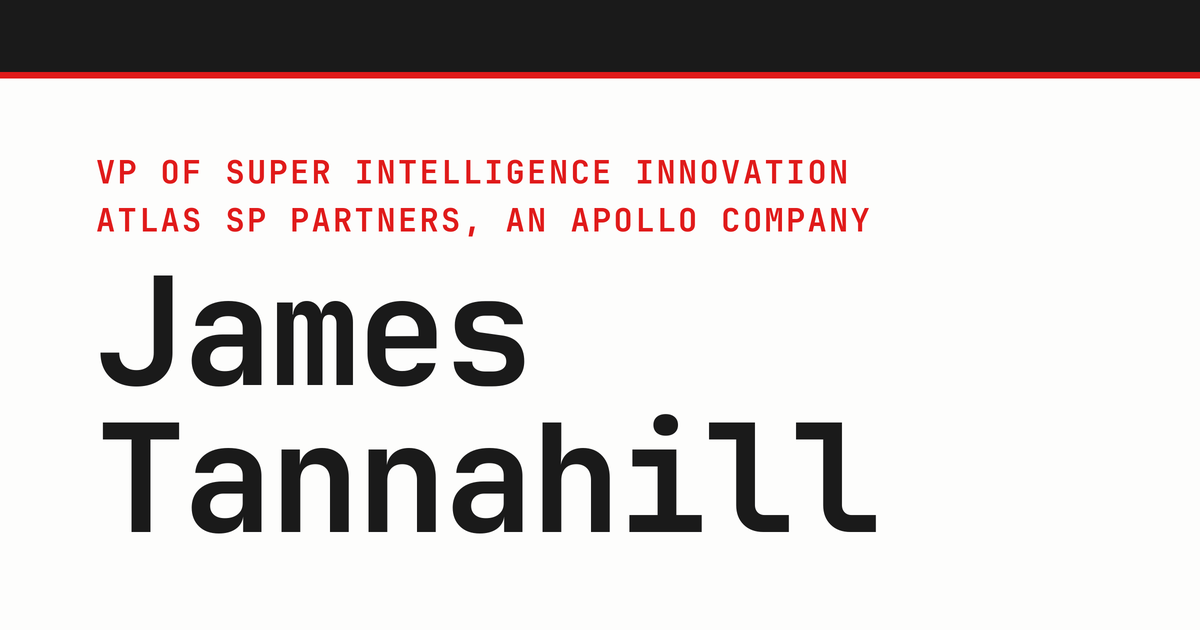
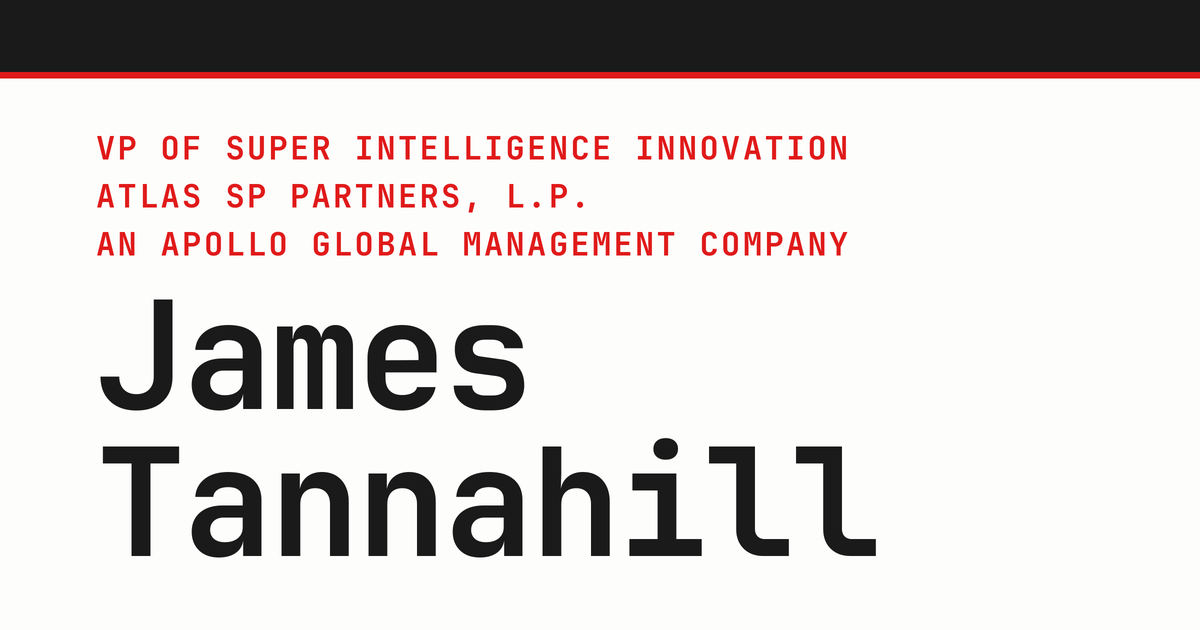
ATLAS SP Partners, L.P., an Apollo Global Management company
Card eyebrow, Wallet landing and both link previews show the company as two
lines (ATLAS SP Partners, L.P. / An Apollo Global Management company), since
the full styling orphaned a word on one line; owner approved the mockups.
generate-og.py now draws each employer line and asserts every line fits
(it only checked the role line before). Schema worksFor name, vCard ORG and
MECARD ORG (comma escaped), meta, llms and manifests updated; og ?v bumped
(contact 8, map 9). pass.json changed: re-sign with update-pass.sh.

diff --git a/contact.html b/contact.html
@@ -3,23 +3,23 @@
 <head>
   <meta charset="UTF-8">
   <meta name="viewport" content="width=device-width, initial-scale=1.0, viewport-fit=cover">
-  <title>James Tannahill | VP of SI Innovation at ATLAS SP Partners</title>
-  <meta name="description" content="James Tannahill. VP of Super Intelligence Innovation at ATLAS SP Partners, an Apollo company. Private Equity, Healthcare Intelligence, AI Infrastructure.">
-  <meta property="og:title" content="James Tannahill | VP of SI Innovation at ATLAS SP Partners">
-  <meta property="og:description" content="VP of Super Intelligence Innovation at ATLAS SP Partners, an Apollo company. Private Equity. Healthcare Intelligence. AI Infrastructure.">
+  <title>James Tannahill | VP of SI Innovation at ATLAS SP Partners, L.P., an Apollo Global Management company</title>
+  <meta name="description" content="James Tannahill. VP of Super Intelligence Innovation at ATLAS SP Partners, L.P., an Apollo Global Management company. Private Equity, Healthcare Intelligence, AI Infrastructure.">
+  <meta property="og:title" content="James Tannahill | VP of SI Innovation at ATLAS SP Partners, L.P., an Apollo Global Management company">
+  <meta property="og:description" content="VP of Super Intelligence Innovation at ATLAS SP Partners, L.P., an Apollo Global Management company. Private Equity. Healthcare Intelligence. AI Infrastructure.">
   <meta property="og:type" content="website">
   <meta property="og:url" content="https://contact.jamestannahill.com/">
-  <meta property="og:image" content="https://contact.jamestannahill.com/og-image.png?v=7">
+  <meta property="og:image" content="https://contact.jamestannahill.com/og-image.png?v=8">
   <meta property="og:image:type" content="image/png">
   <meta property="og:image:width" content="1200">
   <meta property="og:image:height" content="630">
-  <meta property="og:image:alt" content="James Tannahill, VP of Super Intelligence Innovation at ATLAS SP Partners, an Apollo company">
+  <meta property="og:image:alt" content="James Tannahill, VP of Super Intelligence Innovation at ATLAS SP Partners, L.P., an Apollo Global Management company">
   <meta property="og:site_name" content="James Tannahill">
   <meta name="twitter:card" content="summary_large_image">
-  <meta name="twitter:image" content="https://contact.jamestannahill.com/og-image.png?v=7">
-  <meta name="twitter:image:alt" content="James Tannahill, VP of Super Intelligence Innovation at ATLAS SP Partners, an Apollo company">
-  <meta name="twitter:title" content="James Tannahill | VP of SI Innovation at ATLAS SP Partners">
-  <meta name="twitter:description" content="VP of Super Intelligence Innovation at ATLAS SP Partners, an Apollo company. Private Equity. Healthcare Intelligence. AI Infrastructure.">
+  <meta name="twitter:image" content="https://contact.jamestannahill.com/og-image.png?v=8">
+  <meta name="twitter:image:alt" content="James Tannahill, VP of Super Intelligence Innovation at ATLAS SP Partners, L.P., an Apollo Global Management company">
+  <meta name="twitter:title" content="James Tannahill | VP of SI Innovation at ATLAS SP Partners, L.P., an Apollo Global Management company">
+  <meta name="twitter:description" content="VP of Super Intelligence Innovation at ATLAS SP Partners, L.P., an Apollo Global Management company. Private Equity. Healthcare Intelligence. AI Infrastructure.">
   <meta name="robots" content="noindex, nofollow">
   <meta name="author" content="James Tannahill">
   <link rel="icon" type="image/svg+xml" href="/favicon.svg">
@@ -41,10 +41,10 @@
     "@id": "https://jamestannahill.com/#person",
     "name": "James Tannahill",
     "jobTitle": "VP of Super Intelligence Innovation",
-    "worksFor": { "@type": "Organization", "name": "ATLAS SP Partners", "legalName": "ATLAS SP Partners, L.P.", "alternateName": ["Atlas SP Partners", "ATLAS SP", "Atlas SP"], "url": "https://www.atlas-sp.com", "parentOrganization": { "@type": "Organization", "name": "Apollo Global Management", "alternateName": "Apollo", "url": "https://www.apollo.com" } },
+    "worksFor": { "@type": "Organization", "name": "ATLAS SP Partners, L.P.", "legalName": "ATLAS SP Partners, L.P.", "alternateName": ["ATLAS SP Partners", "Atlas SP Partners", "ATLAS SP", "Atlas SP"], "url": "https://www.atlas-sp.com", "parentOrganization": { "@type": "Organization", "name": "Apollo Global Management", "alternateName": "Apollo", "url": "https://www.apollo.com" } },
     "memberOf": { "@type": "Organization", "name": "YPO", "url": "https://www.ypo.org" },
     "alumniOf": { "@type": "Organization", "name": "SpaceX Super Intelligence", "alternateName": "SpaceXSI" },
-    "description": "VP of Super Intelligence Innovation @ ATLAS SP Partners, an Apollo company | AI & ML for Capital Markets | YPO. Formerly AI/ML for Capital Markets at SpaceX Super Intelligence and President and Managing Partner, Plocamium Holdings.",
+    "description": "VP of Super Intelligence Innovation @ ATLAS SP Partners, L.P., an Apollo Global Management company | AI & ML for Capital Markets | YPO. Formerly AI/ML for Capital Markets at SpaceX Super Intelligence and President and Managing Partner, Plocamium Holdings.",
     "url": "https://jamestannahill.com",
     "sameAs": ["https://www.linkedin.com/in/jamesstannahill"],
     "email": "contact@jamestannahill.com"
@@ -444,7 +444,7 @@
 
     <!-- HERO -->
     <header class="hero">
-      <p class="hero-eyebrow"><span>VP of Super Intelligence Innovation</span> <span>ATLAS SP Partners, an Apollo company</span></p>
+      <p class="hero-eyebrow"><span>VP of Super Intelligence Innovation</span> <span>ATLAS SP Partners, L.P.</span> <span>An Apollo Global Management company</span></p>
       <h1 class="hero-name">James<br>Tannahill</h1>
     </header>
 

diff --git a/map/index.html b/map/index.html
@@ -4,25 +4,25 @@
   <meta charset="UTF-8">
   <meta name="viewport" content="width=device-width, initial-scale=1.0, viewport-fit=cover">
   <title>James Tannahill · New York</title>
-  <meta name="description" content="James Tannahill. VP of Super Intelligence Innovation at ATLAS SP Partners, an Apollo company. Private Equity, Healthcare Intelligence, AI Infrastructure. New York City.">
+  <meta name="description" content="James Tannahill. VP of Super Intelligence Innovation at ATLAS SP Partners, L.P., an Apollo Global Management company. Private Equity, Healthcare Intelligence, AI Infrastructure. New York City.">
   <meta property="og:title" content="James Tannahill · New York">
-  <meta property="og:description" content="VP of Super Intelligence Innovation at ATLAS SP Partners, an Apollo company. Private Equity. Healthcare Intelligence. AI Infrastructure.">
+  <meta property="og:description" content="VP of Super Intelligence Innovation at ATLAS SP Partners, L.P., an Apollo Global Management company. Private Equity. Healthcare Intelligence. AI Infrastructure.">
   <meta property="og:type" content="website">
   <meta property="og:url" content="https://map.jamestannahill.com/">
-  <meta property="og:image" content="https://map.jamestannahill.com/og-image.jpg?v=8">
+  <meta property="og:image" content="https://map.jamestannahill.com/og-image.jpg?v=9">
   <meta property="og:image:type" content="image/jpeg">
   <meta property="og:image:width" content="1200">
   <meta property="og:image:height" content="630">
-  <meta property="og:image:alt" content="James Tannahill, VP of Super Intelligence Innovation at ATLAS SP Partners, an Apollo company, over a dark map of New York">
+  <meta property="og:image:alt" content="James Tannahill, VP of Super Intelligence Innovation at ATLAS SP Partners, L.P., an Apollo Global Management company, over a dark map of New York">
   <meta property="og:site_name" content="James Tannahill">
   <meta name="theme-color" content="#0A0A0A">
   <meta name="color-scheme" content="dark">
   <link rel="manifest" href="/manifest.json">
   <meta name="twitter:card" content="summary_large_image">
-  <meta name="twitter:image" content="https://map.jamestannahill.com/og-image.jpg?v=8">
-  <meta name="twitter:image:alt" content="James Tannahill, VP of Super Intelligence Innovation at ATLAS SP Partners, an Apollo company, over a dark map of New York">
+  <meta name="twitter:image" content="https://map.jamestannahill.com/og-image.jpg?v=9">
+  <meta name="twitter:image:alt" content="James Tannahill, VP of Super Intelligence Innovation at ATLAS SP Partners, L.P., an Apollo Global Management company, over a dark map of New York">
   <meta name="twitter:title" content="James Tannahill · New York">
-  <meta name="twitter:description" content="VP of Super Intelligence Innovation at ATLAS SP Partners, an Apollo company. Private Equity. Healthcare Intelligence. AI Infrastructure.">
+  <meta name="twitter:description" content="VP of Super Intelligence Innovation at ATLAS SP Partners, L.P., an Apollo Global Management company. Private Equity. Healthcare Intelligence. AI Infrastructure.">
   <meta name="robots" content="index, follow">
   <meta name="author" content="James Tannahill">
   <link rel="icon" type="image/png" href="/favicon.png">
@@ -61,10 +61,10 @@
     "name": "James Tannahill",
     "url": "https://jamestannahill.com",
     "jobTitle": "VP of Super Intelligence Innovation",
-    "worksFor": { "@type": "Organization", "name": "ATLAS SP Partners", "legalName": "ATLAS SP Partners, L.P.", "alternateName": ["Atlas SP Partners", "ATLAS SP", "Atlas SP"], "url": "https://www.atlas-sp.com", "parentOrganization": { "@type": "Organization", "name": "Apollo Global Management", "alternateName": "Apollo", "url": "https://www.apollo.com" } },
+    "worksFor": { "@type": "Organization", "name": "ATLAS SP Partners, L.P.", "legalName": "ATLAS SP Partners, L.P.", "alternateName": ["ATLAS SP Partners", "Atlas SP Partners", "ATLAS SP", "Atlas SP"], "url": "https://www.atlas-sp.com", "parentOrganization": { "@type": "Organization", "name": "Apollo Global Management", "alternateName": "Apollo", "url": "https://www.apollo.com" } },
     "memberOf": { "@type": "Organization", "name": "YPO", "url": "https://www.ypo.org" },
     "alumniOf": { "@type": "Organization", "name": "SpaceX Super Intelligence", "alternateName": "SpaceXSI" },
-    "description": "VP of Super Intelligence Innovation @ ATLAS SP Partners, an Apollo company | AI & ML for Capital Markets | YPO. Formerly AI/ML for Capital Markets at SpaceX Super Intelligence and President and Managing Partner, Plocamium Holdings."
+    "description": "VP of Super Intelligence Innovation @ ATLAS SP Partners, L.P., an Apollo Global Management company | AI & ML for Capital Markets | YPO. Formerly AI/ML for Capital Markets at SpaceX Super Intelligence and President and Managing Partner, Plocamium Holdings."
     }
     ]
   }

diff --git a/card.js b/card.js
@@ -92,7 +92,7 @@
   document.getElementById('saveContact')?.addEventListener('click', () => showToast('Contact card downloaded'));
 
   // ── QR ────────────────────────────────────────────────────────────────
-  const MECARD = 'MECARD:N:Tannahill,James;ORG:ATLAS SP Partners;TITLE:VP of SI Innovation;EMAIL:contact@jamestannahill.com;URL:https://jamestannahill.com;NOTE:Signal preferred;;';
+  const MECARD = 'MECARD:N:Tannahill,James;ORG:ATLAS SP Partners\\, L.P.;TITLE:VP of SI Innovation;EMAIL:contact@jamestannahill.com;URL:https://jamestannahill.com;NOTE:Signal preferred;;';
 
   // Draw on whole device pixels: each module is an integer number of
   // physical pixels and the CSS size matches the bitmap exactly, so the

diff --git a/add.html b/add.html
@@ -230,7 +230,7 @@
   <div class="card">
     <div class="tag">wallet pass</div>
     <div class="name">James Tannahill</div>
-    <div class="title">VP of Super Intelligence Innovation &middot; ATLAS SP Partners, an Apollo company</div>
+    <div class="title">VP of Super Intelligence Innovation<br>ATLAS SP Partners, L.P.<br>An Apollo Global Management company</div>
     <div class="divider"></div>
 
     <!-- iOS Safari: direct wallet add -->

diff --git a/generate-og.py b/generate-og.py
@@ -24,7 +24,8 @@ SCALE = 2
 W, H = 1200, 630
 
 ROLE = "VP of Super Intelligence Innovation"
-EMPLOYER = "ATLAS SP Partners, an Apollo company"
+# One line each: the full styling is too wide for a single line at these sizes.
+EMPLOYER = ("ATLAS SP Partners, L.P.", "An Apollo Global Management company")
 FIRST, LAST = "James", "Tannahill"
 
 MONO_BOLD = OG / "fonts" / "JetBrainsMono-Bold.ttf"
@@ -75,19 +76,21 @@ def contact_card():
     eyebrow_lead = round(eyebrow.size * 1.5)
     name_lead = round(name.size * 0.98)
     gap = 44 * SCALE
-    block = cap_height(eyebrow) + eyebrow_lead + gap + cap_height(name) + name_lead
+    block = cap_height(eyebrow) + eyebrow_lead * len(EMPLOYER) + gap + cap_height(name) + name_lead
     top = band + rule + ((H * SCALE - band - rule) - block) // 2 - 8 * SCALE
 
     y = top + cap_height(eyebrow)
     draw_text(d, (x, y), ROLE.upper(), eyebrow, red, eyebrow_track)
-    draw_text(d, (x, y + eyebrow_lead), EMPLOYER.upper(), eyebrow, red, eyebrow_track)
+    for i, line in enumerate(EMPLOYER, 1):
+        draw_text(d, (x, y + eyebrow_lead * i), line.upper(), eyebrow, red, eyebrow_track)
 
-    y += eyebrow_lead + gap + cap_height(name)
+    y += eyebrow_lead * len(EMPLOYER) + gap + cap_height(name)
     draw_text(d, (x, y), FIRST, name, ink, name_track)
     draw_text(d, (x, y + name_lead), LAST, name, ink, name_track)
 
     widest = max(text_width(s, f, t) for s, f, t in (
         (ROLE.upper(), eyebrow, eyebrow_track),
+        *((line.upper(), eyebrow, eyebrow_track) for line in EMPLOYER),
         (LAST, name, name_track),
     ))
     assert x + widest < (W - 96) * SCALE, "contact text runs into the right margin"
@@ -117,7 +120,7 @@ def map_card():
     name_lead = round(name.size * 0.98)
     role_lead = round(role.size * 1.4)
     gap = 48 * SCALE
-    block = cap_height(name) + name_lead + gap + cap_height(role) + role_lead
+    block = cap_height(name) + name_lead + gap + cap_height(role) + role_lead * len(EMPLOYER)
     top = (H * SCALE - block) // 2 - 8 * SCALE
 
     y = top + cap_height(name)
@@ -125,7 +128,10 @@ def map_card():
     draw_text(d, (x, y + name_lead), LAST, name, paper, -0.01)
     y += name_lead + gap + cap_height(role)
     draw_text(d, (x, y), ROLE, role, gold_text)
-    draw_text(d, (x, y + role_lead), EMPLOYER, role, paper)
+    for i, line in enumerate(EMPLOYER, 1):
+        draw_text(d, (x, y + role_lead * i), line, role, paper)
+    widest = max(text_width(s, role, 0.0) for s in (ROLE, *EMPLOYER))
+    assert x + widest < 0.66 * img.width, "map text runs past the scrim"
     return img.resize((W, H), Image.LANCZOS)
 
 

diff --git a/DESIGN.md b/DESIGN.md
@@ -76,7 +76,7 @@ Scope: this document governs the contact card only (`contact.html`). The reposit
 - Toast: `ink` bar with a red top rule, bottom-centered, `role="status"` with polite live announcements, auto-dismissed after 2.5s. Use it as the single feedback channel for download and reveal feedback.
 - Focus: every focusable element shows `:focus-visible { outline: 2px solid var(--ink); outline-offset: -2px; }`.
 - Link row dividers are 1px `rule` on every row except the last row of `#links`; the actions grid draws its own top rule.
-- The current role is VP of Super Intelligence Innovation at ATLAS SP Partners, an Apollo company, shown only as the hero eyebrow.
+- The current role is VP of Super Intelligence Innovation at ATLAS SP Partners, L.P., an Apollo Global Management company, shown only as the hero eyebrow.
 - Hover states apply only under `(hover: hover) and (pointer: fine)`; touch devices get `:active` feedback instead. Keep new hover rules inside that query.
 
 ## Do's and Don'ts
